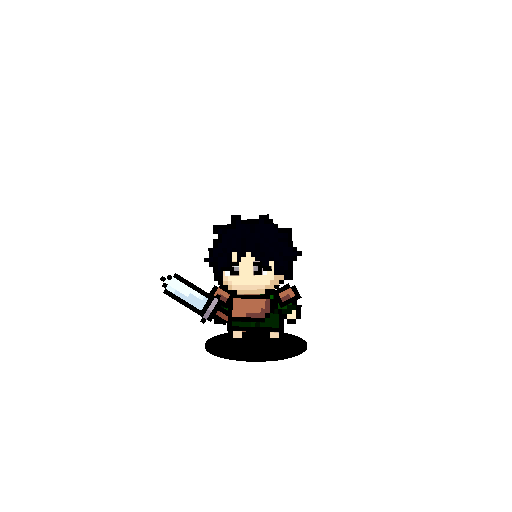
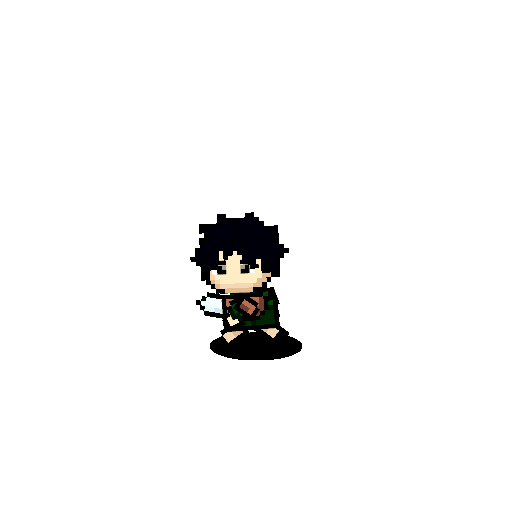
차징몬스터 이미지 추가

Changed region(s): [[0.3125, 0.4062, 0.625, 0.7188]]

diff --git a/GP_FinalProj/ChargingMonster.cpp b/GP_FinalProj/ChargingMonster.cpp
@@ -22,7 +22,10 @@ void ChargingMonster::LoadTextures() {
         "../../Resource/Monster/charge_frame2.png",
         "../../Resource/Monster/charge_frame3.png",
         "../../Resource/Monster/charge_frame4.png",
-        "../../Resource/Monster/charge_frame5.png"
+        "../../Resource/Monster/charge_frame5.png",
+        "../../Resource/Monster/charge_frame6.png",
+        "../../Resource/Monster/charge_frame7.png",
+        "../../Resource/Monster/charge_frame8.png"
     };
     for (const auto& file : idleFrameFiles) {
         SDL_Surface* temp_surface = IMG_Load(file.c_str());
@@ -37,11 +40,14 @@ void ChargingMonster::LoadTextures() {
 
     // Charging textures
     std::vector<std::string> chargingFrameFiles = {
-        "../../Resource/Monster/charge_frame1.png",
-        "../../Resource/Monster/charge_frame2.png",
-        "../../Resource/Monster/charge_frame3.png",
-        "../../Resource/Monster/charge_frame4.png",
-        "../../Resource/Monster/charge_frame5.png"
+        "../../Resource/Monster/chaging_frame1.png",
+        "../../Resource/Monster/chaging_frame2.png",
+        "../../Resource/Monster/chaging_frame3.png",
+        "../../Resource/Monster/chaging_frame4.png",
+        "../../Resource/Monster/chaging_frame5.png",
+        "../../Resource/Monster/chaging_frame6.png",
+        "../../Resource/Monster/chaging_frame7.png",
+        "../../Resource/Monster/chaging_frame8.png",
     };
     for (const auto& file : chargingFrameFiles) {
         SDL_Surface* temp_surface = IMG_Load(file.c_str());
@@ -58,7 +64,9 @@ void ChargingMonster::LoadTextures() {
     std::vector<std::string> runningFrameFiles = {
         "../../Resource/Monster/charge_run_frame1.png",
         "../../Resource/Monster/charge_run_frame2.png",
-        "../../Resource/Monster/charge_run_frame3.png"
+        "../../Resource/Monster/charge_run_frame3.png",
+        "../../Resource/Monster/charge_run_frame4.png",
+        "../../Resource/Monster/charge_run_frame5.png"
     };
     for (const auto& file : runningFrameFiles) {
         SDL_Surface* temp_surface = IMG_Load(file.c_str());
@@ -71,11 +79,26 @@ void ChargingMonster::LoadTextures() {
         }
     }
 
-    // Stunned texture
-    SDL_Surface* temp_surface = IMG_Load("../../Resource/Monster/charge_stun_frame.png");
-    if (temp_surface) {
-        stunnedTexture = SDL_CreateTextureFromSurface(g_renderer, temp_surface);
-        SDL_FreeSurface(temp_surface);
+
+    std::vector<std::string> stunningFrameFiles = {
+        "../../Resource/Monster/charge_stun_frame1.png",
+        "../../Resource/Monster/charge_stun_frame2.png",
+        "../../Resource/Monster/charge_stun_frame3.png",
+        "../../Resource/Monster/charge_stun_frame4.png",
+        "../../Resource/Monster/charge_stun_frame5.png",
+        "../../Resource/Monster/charge_stun_frame6.png",
+        "../../Resource/Monster/charge_stun_frame7.png",
+        "../../Resource/Monster/charge_stun_frame8.png",
+    };
+    for (const auto& file : stunningFrameFiles) {
+        SDL_Surface* temp_surface = IMG_Load(file.c_str());
+        if (temp_surface) {
+            SDL_Texture* texture = SDL_CreateTextureFromSurface(g_renderer, temp_surface);
+            if (texture) {
+                stunnedTexture.push_back(texture);
+            }
+            SDL_FreeSurface(temp_surface);
+        }
     }
 }
 
@@ -156,6 +179,9 @@ void ChargingMonster::AdvanceFrame(float deltaTime) {
         else if (state == Running) {
             currentFrame %= runningTextures.size();
         }
+        else if (state == Stunned) {
+			currentFrame %= stunnedTexture.size();
+		}
     }
 }
 
@@ -180,7 +206,7 @@ void ChargingMonster::Render() {
         }
         break;
     case Stunned:
-        currentTexture = stunnedTexture;
+        currentTexture = stunnedTexture[currentFrame % runningTextures.size()];
         break;
     }
 

diff --git a/GP_FinalProj/MovingMonster.cpp b/GP_FinalProj/MovingMonster.cpp
@@ -2,16 +2,13 @@
 #include "globals.h"
 #include <cmath>
 
-MovingMonster::MovingMonster(int x, int y) : Monster(x, y), health(3), isStunned(false) { // Initial health set to 3
+MovingMonster::MovingMonster(int x, int y) : Monster(x, y), health(10), isStunned(false) { // Initial health set to 3
     normalFrameFiles = {
         "../../Resource/Monster/slime_frame1.png",
         "../../Resource/Monster/slime_frame2.png",
         "../../Resource/Monster/slime_frame3.png",
         "../../Resource/Monster/slime_frame4.png",
-        "../../Resource/Monster/slime_frame5.png",
-        "../../Resource/Monster/slime_frame6.png",
-        "../../Resource/Monster/slime_frame7.png",
-        "../../Resource/Monster/slime_frame8.png"
+        "../../Resource/Monster/slime_frame5.png"
     };
 
     stunFrameFiles = {
@@ -57,3 +54,4 @@ void MovingMonster::MoveTowardsPlayer(float deltaTime, const SDL_Rect& playerRec
         y += static_cast<int>(moveSpeed * deltaY / distance * deltaTime);
     }
 }
+

diff --git a/GP_FinalProj/Monster.cpp b/GP_FinalProj/Monster.cpp
@@ -51,7 +51,7 @@ void Monster::Render() {
 }
 
 bool Monster::CheckCollisionWithPlayer(const SDL_Rect& playerRect) {
-    SDL_Rect monsterRect = { x, y, 128, 128 }; // Adjust collision size to match render size
+    SDL_Rect monsterRect = { x, y, 5, 5 }; // Adjust collision size to match render size
     return SDL_HasIntersection(&monsterRect, &playerRect);
 }
 

diff --git a/GP_FinalProj/ChargingMonster.h b/GP_FinalProj/ChargingMonster.h
@@ -29,7 +29,7 @@ private:
     std::vector<SDL_Texture*> idleTextures;
     std::vector<SDL_Texture*> chargingTextures;
     std::vector<SDL_Texture*> runningTextures;
-    SDL_Texture* stunnedTexture;
+    std::vector<SDL_Texture*> stunnedTexture;
 
     void LoadTextures();
     void AdvanceFrame(float deltaTime);
